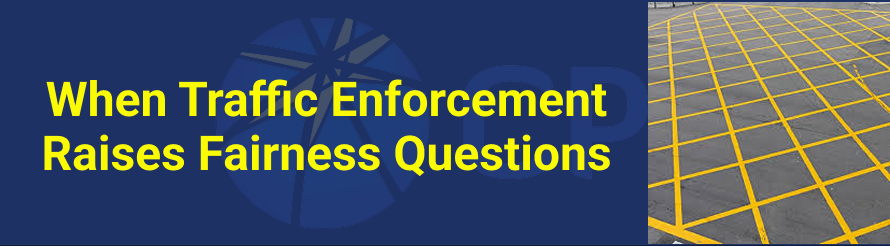
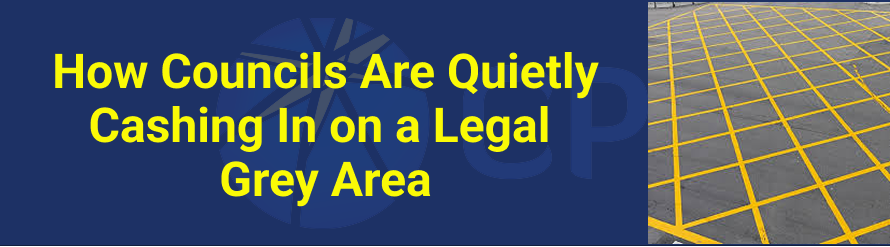
commit

Changed region(s): [[0.0303, 0.1984, 0.6978, 0.8502]]

diff --git a/blog/when-traffic-control-becomes-a-revenue-trap.php b/blog/when-traffic-control-becomes-a-revenue-trap.php
@@ -2,7 +2,7 @@
 <html lang="en">
 
 <head>
-    <title>When "Free" Isn't Really Free: The Hidden Cost of Trial Offers | Consumer Protection Bureau</title>
+    <title>When Traffic Control Becomes a Revenue Trap | Consumer Protection Bureau</title>
     <meta name="description"
         content="The Consumer Protection Bureau exposes the hidden costs of free trial subscription traps and how consumers can protect themselves from deceptive billing practices">
     <!-- Required meta tags -->
@@ -33,6 +33,20 @@
 </head>
 
 <?php include 'assets/include/header.php'; ?>
+<style>
+.square-list {
+    list-style-type: square;
+    /* Makes bullets square */
+    padding-left: 20px;
+    /* Optional: spacing from edge */
+    margin: 0;
+}
+
+.square-list li {
+    margin-bottom: 8px;
+    /* Optional: space between items */
+}
+</style>
 <main>
     <section class="py-lg-5 py-4 bg-light about-hero">
         <div class="container py-5 px-3 px-md-5" style="max-width: 980px; background: #E3F2FD; border-radius: 12px;">
@@ -43,7 +57,7 @@
             </div>
             <!-- Title & Meta -->
             <div class="mb-4">
-                <h1 class="display-5 fw-bold text-uppercase" style="color:#B8860B;">
+                <h1 class="display-5 fw-bold text-uppercase" style="color:#0D47A1;">
                     Yellow Box Junctions:
                 </h1>
                 <h3>When Traffic Control Becomes a Revenue Trap</h3>
@@ -59,38 +73,41 @@
                     enabled by legal ambiguity and automated enforcement.</p>
 
 
-                    <div class="row">
-                        <div class="col-lg-4 col-md-6 mx-auto mb-lg-0 mb-3">
-                            <img src="../assets/images/blog/yellow-box (1).jpg" alt="" class="h-100 img-fluid rounded ">
-                        </div>
-                          <div class="col-lg-4 col-md-6 mx-auto mb-lg-0 mb-3">
-                            <img src="../assets/images/blog/yellow-box (2).jpg" alt="" class="img-fluid rounded ">
-                        </div>
-                          <div class="col-lg-4 col-md-6 mx-auto mb-lg-0 mb-3">
-                            <img src="../assets/images/blog/yellow-box-3.jpg" alt="" class="img-fluid rounded ">
-                        </div>
+                <div class="row">
+                    <div class="col-lg-4 col-md-6 mx-auto mb-lg-0 mb-3">
+                        <img src="../assets/images/blog/yellow-box (1).jpg" alt="" class="h-100 img-fluid rounded ">
                     </div>
+                    <div class="col-lg-4 col-md-6 mx-auto mb-lg-0 mb-3">
+                        <img src="../assets/images/blog/yellow-box (2).jpg" alt="" class="img-fluid rounded ">
+                    </div>
+                    <div class="col-lg-4 col-md-6 mx-auto mb-lg-0 mb-3">
+                        <img src="../assets/images/blog/yellow-box-3.jpg" alt="" class="img-fluid rounded ">
+                    </div>
+                </div>
                 <div class="p-3 rounded mt-4"
                     style="background: linear-gradient(180deg, #ffffff 0%, #FFF9C4 100%); border: 1px solid #FFEB3B;">
-                    <h3 class="fw-semibold mt-0" style="color: #B8860B;">The Legal Grey Area at the Heart of the Problem
+                    <h3 class="fw-semibold mt-0" style="color: #0D47A1;">The Legal Grey Area at the Heart of the Problem
                     </h3>
                     <p class="text">Yellow box junctions are governed by the Traffic Signs Regulations and General
                         Directions (TSRGD). However, the legislation fails to provide a clear statutory definition of
                         what constitutes a “junction.”</p>
                     <p class="text">This omission matters.</p>
+                    <ul class="square-list">
+                        <li>
+                            <p class="mb-0"> Where a yellow box begins and ends</p>
 
-                    <div class="p-3 rounded mb-3" style="background:#f4f8ff; border-left:4px solid #0D47A1;">
-                        <p class="mb-0">➤ Where a yellow box begins and ends</p>
-                    </div>
+                        </li>
+                        <li>
+                            <p class="mb-0"> How far it extends beyond the actual conflict area</p>
 
-                    <div class="p-3 rounded mb-3" style="background:#f4f8ff; border-left:4px solid #0D47A1;">
-                        <p class="mb-0">➤ How far it extends beyond the actual conflict area</p>
-                    </div>
+                        </li>
+                        <li>
+                            <p class="mb-0"> Whether its size is proportionate to the
+                                junction it is meant to protect</p>
 
-                    <div class="p-3 rounded mb-3" style="background:#f4f8ff; border-left:4px solid #0D47A1;">
-                        <p class="mb-0">➤ Whether its size is proportionate to the junction it is meant to protect
-                        </p>
-                    </div>
+                        </li>
+                    </ul>
+
 
                     <p class="text mt-3">
                     <p class="text">In practice, this discretion has increasingly been exercised in favour of
@@ -99,37 +116,39 @@
 
                 <div class="p-3 rounded mt-4"
                     style="background: linear-gradient(180deg, #ffffff 0%, #FFFDE7 100%); border: 1px solid #FFD54F;">
-                    <h3 class="fw-semibold mt-0" style="color: #B8860B;">Oversized Boxes, Automated Penalties</h3>
+                    <h3 class="fw-semibold mt-0" style="color: #0D47A1;">Oversized Boxes, Automated Penalties</h3>
                     <p>Independent technical reviews of yellow box layouts across multiple local authority areas
                         indicate that a significant proportion of yellow boxes extend well beyond the area where
                         cross-traffic is affected.</p>
                     <p>In some cases, boxes are reported to be up to 50% larger than necessary, capturing vehicles that
                         are not obstructing any junction at all.</p>
+                    <ul class="square-list">
+                        <li>
+                            <p class="mb-0"> Momentary traffic slowdowns trigger penalties</p>
 
-                    <div class="p-3 rounded mb-3" style="background:#f4f8ff; border-left:4px solid #0D47A1;">
-                        <p class="mb-0"> ➤ Momentary traffic slowdowns trigger penalties
-                        </p>
-                    </div>
-                    <div class="p-3 rounded mb-3" style="background:#f4f8ff; border-left:4px solid #0D47A1;">
-                        <p class="mb-0">➤ Context is ignored
-                        </p>
-                    </div>
+                        </li>
+                        <li>
+                            <p class="mb-0"> Context is ignored</p>
 
-                    <div class="p-3 rounded mb-3" style="background:#f4f8ff; border-left:4px solid #0D47A1;">
-                        <p class="mb-0">➤ Common-sense judgment is absent
-                        </p>
-                    </div>
-                    <div class="p-3 rounded mb-3" style="background:#f4f8ff; border-left:4px solid #0D47A1;">
-                        <p class="mb-0">➤ Motorists are fined despite no actual obstruction occurring
-                        </p>
-                    </div>
+                        </li>
+                        <li>
+                            <p class="mb-0"> Common-sense judgment is absent</p>
+
+                        </li>
+                        <li>
+                            <p class="mb-0"> Motorists are fined despite no actual obstruction occurring</p>
+
+                        </li>
+                    </ul>
+
+
                     <p>The result is predictable: a sharp rise in Penalty Charge Notices (PCNs) and a steady income
                         stream for councils.</p>
                 </div>
 
                 <div class="p-3 rounded mt-4"
                     style="background: linear-gradient(180deg, #ffffff 0%, #FFF9C4 100%); border: 1px solid #FFEB3B;">
-                    <h3 class="fw-semibold mt-0" style="color: #B8860B;">When Compliance Becomes Impossible</h3>
+                    <h3 class="fw-semibold mt-0" style="color: #0D47A1;">When Compliance Becomes Impossible</h3>
                     <p>Drivers are legally required not to enter a yellow box unless their exit is clear. However,
                         oversized boxes make compliance unrealistic in congested conditions.</p>
                     <p>Motorists may enter lawfully, only to be penalised seconds later when traffic ahead unexpectedly
@@ -139,7 +158,7 @@
 
                 <div class="p-3 rounded mt-4"
                     style="background: linear-gradient(180deg, #ffffff 0%, #FFFDE7 100%); border: 1px solid #FFD54F;">
-                    <h3 class="fw-semibold mt-0" style="color: #B8860B;">Why This Is a Consumer Issue</h3>
+                    <h3 class="fw-semibold mt-0" style="color: #0D47A1;">Why This Is a Consumer Issue</h3>
                     <p class="text">Local authorities are public bodies with a duty to act:</p>
                     <ul>
                         <li>Proportionately</li>
@@ -151,41 +170,44 @@
                     <p>For many households, a £70 – £130 PCN is not a minor inconvenience. It is a material financial
                         burden.</p>
 
-                    <div class="p-3 rounded mb-3" style="background:#f4f8ff; border-left:4px solid #0D47A1;">
-                        <p class="mb-0">➤ Enforcement objectives are being blurred with revenue incentives
-                        </p>
-                    </div>
-                    <div class="p-3 rounded mb-3" style="background:#f4f8ff; border-left:4px solid #0D47A1;">
-                        <p class="mb-0">➤ Legal ambiguity is being exploited rather than corrected
-                        </p>
-                    </div>
-                    <div class="p-3 rounded mb-3" style="background:#f4f8ff; border-left:4px solid #0D47A1;">
-                        <p class="mb-0">➤ Consumers are denied meaningful opportunity for fair challenge
-                        </p>
-                    </div>
+                         <ul class="square-list">
+                        <li>
+                            <p class="mb-0"> Enforcement objectives are being blurred with revenue incentives</p>
+
+                        </li>
+                        <li>
+                            <p class="mb-0"> Legal ambiguity is being exploited rather than corrected</p>
+
+                        </li>
+                        <li>
+                            <p class="mb-0"> Consumers are denied meaningful opportunity for fair challenge</p>
+
+                        </li>
+                    
+                    </ul>
                 </div>
 
                 <div class="p-3 rounded mt-4"
                     style="background: linear-gradient(180deg, #ffffff 0%, #FFF9C4 100%); border: 1px solid #FFEB3B;">
-                    <h3 class="fw-semibold mt-0" style="color: #B8860B;">Call for Evidence: Tell Us Your Experience</h3>
+                    <h3 class="fw-semibold mt-0" style="color: #0D47A1;">Call for Evidence: Tell Us Your Experience</h3>
                     <p>The Consumer Protection Bureau is now gathering evidence from motorists affected by yellow box
                         enforcement.</p>
                     <p>If you have received a PCN relating to a yellow box junction, we invite you to share your
                         experience with us.</p>
-                    <ul class="list-unstyled">
-                        <li>➤ The location of the junction</li>
-                        <li>➤ Whether cross-traffic was actually obstructed</li>
-                        <li>➤ The outcome of any appeal</li>
-                        <li>➤ Photographs or CCTV stills (where available)</li>
+                    <ul class="square-list">
+                        <li> The location of the junction</li>
+                        <li> Whether cross-traffic was actually obstructed</li>
+                        <li> The outcome of any appeal</li>
+                        <li> Photographs or CCTV stills (where available)</li>
                     </ul>
 
                 </div>
 
                 <div id="cpb-position" class="p-4 rounded mt-4"
-                    style="background:#B8860B;color:#fff; box-shadow:0 12px 30px rgba(184,134,11,0.15); border:2px solid #B8860B;">
+                    style="background:#0D47A1;color:#fff; box-shadow:0 12px 30px rgba(184,134,11,0.15); border:2px solid #0D47A1;">
                     <div class="d-flex align-items-center gap-3">
                         <div
-                            style="width:64px;min-width:64px;height:64px;min-height:64px;background:#fff;border-radius:50%;display:flex;align-items:center;justify-content:center;color:#B8860B;font-size:22px;box-shadow:0 6px 18px rgba(0,0,0,0.08);flex:0 0 64px;">
+                            style="width:64px;min-width:64px;height:64px;min-height:64px;background:#fff;border-radius:50%;display:flex;align-items:center;justify-content:center;color:#0D47A1;font-size:22px;box-shadow:0 6px 18px rgba(0,0,0,0.08);flex:0 0 64px;">
                             <i class="fas fa-hands-helping" aria-hidden="true"></i>
                         </div>
                         <div>
@@ -200,8 +222,9 @@
                     </div>
                 </div>
 
-                <h3 class="fw-bold mb-1 mt-5 text-center" style="color:#B8860B;">Yellow box junctions should manage
-                    traffic, not manufacture penalties.</h3>
+                <h3 class="fw-bold mb-1 mt-5 text-center" style="color:#0D47A1;">Yellow box junctions 
+                    should manage
+                    traffic, <br> not manufacture penalties.</h3>
                 <div class="text-center mt-5 d-flex flex-column justify-content-center align-content-center">
                     <p class="mt-3 text-muted small">Share this article to raise awareness</p>
                 </div>
